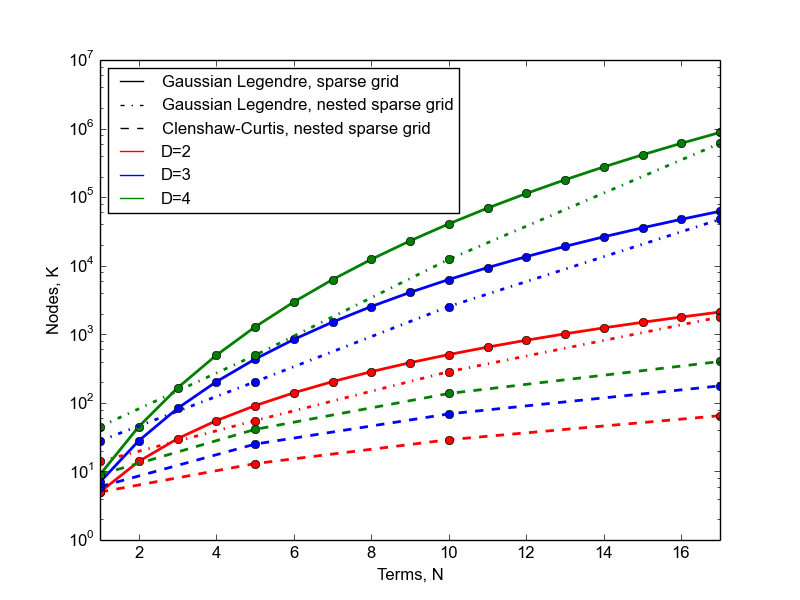
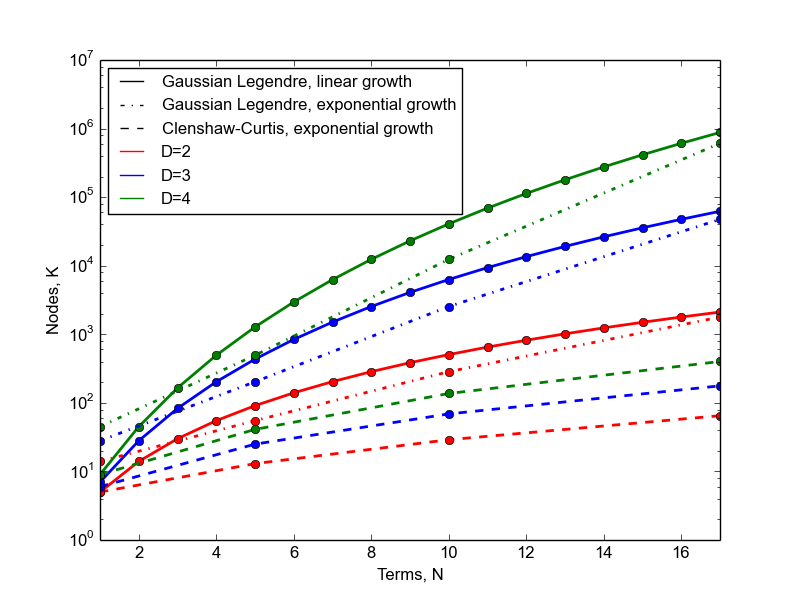
stuff!

Changed region(s): [[0.125, 0.12, 0.5938, 0.36], [0.1875, 0.27, 0.25, 0.3]]

diff --git a/lecture2.tex b/lecture2.tex
@@ -459,14 +459,6 @@ Smolyak sparse grid:
 %   \end{columns}
 %  \end{frame}
 
- \begin{frame}
-  \frametitle{Comparing the three methods}
-
- \begin{figure}
-  \includegraphics[width=0.85\textwidth]{dimensionality_nodes_nested2.png}
- \end{figure}
- \end{frame}
-
 
   \begin{frame}
    \frametitle{Mapping between polynomial order $M$ and quadrature order $L$}
@@ -484,6 +476,14 @@ Smolyak sparse grid:
   %\end{tabular}
 
   \end{frame}
+
+ \begin{frame}
+  \frametitle{Comparing three sparse grids}
+
+ \begin{figure}
+  \includegraphics[width=0.85\textwidth]{dimensionality_nodes_nested2.png}
+ \end{figure}
+ \end{frame}
 
 
 

diff --git a/figures/dimensionality_nodes2.py b/figures/dimensionality_nodes2.py
@@ -20,7 +20,7 @@ pl.plot(-1,1, "k--")
 pl.plot(-1,1, "r")
 pl.plot(-1,1, "b")
 pl.plot(-1,1, "g")
-pl.legend(["Gaussian Legendre, sparse grid","Gaussian Legendre, nested sparse grid","Clenshaw-Curtis, nested sparse grid", "D=2","D=3","D=4"],loc=2,prop={"size" :12})
+pl.legend(["Gaussian Legendre, linear growth","Gaussian Legendre, exponential growth","Clenshaw-Curtis, exponential growth", "D=2","D=3","D=4"],loc=2,prop={"size" :12})
 pl.xlim([1,17])
 
 L = pl.arange(m+1, l+1)
